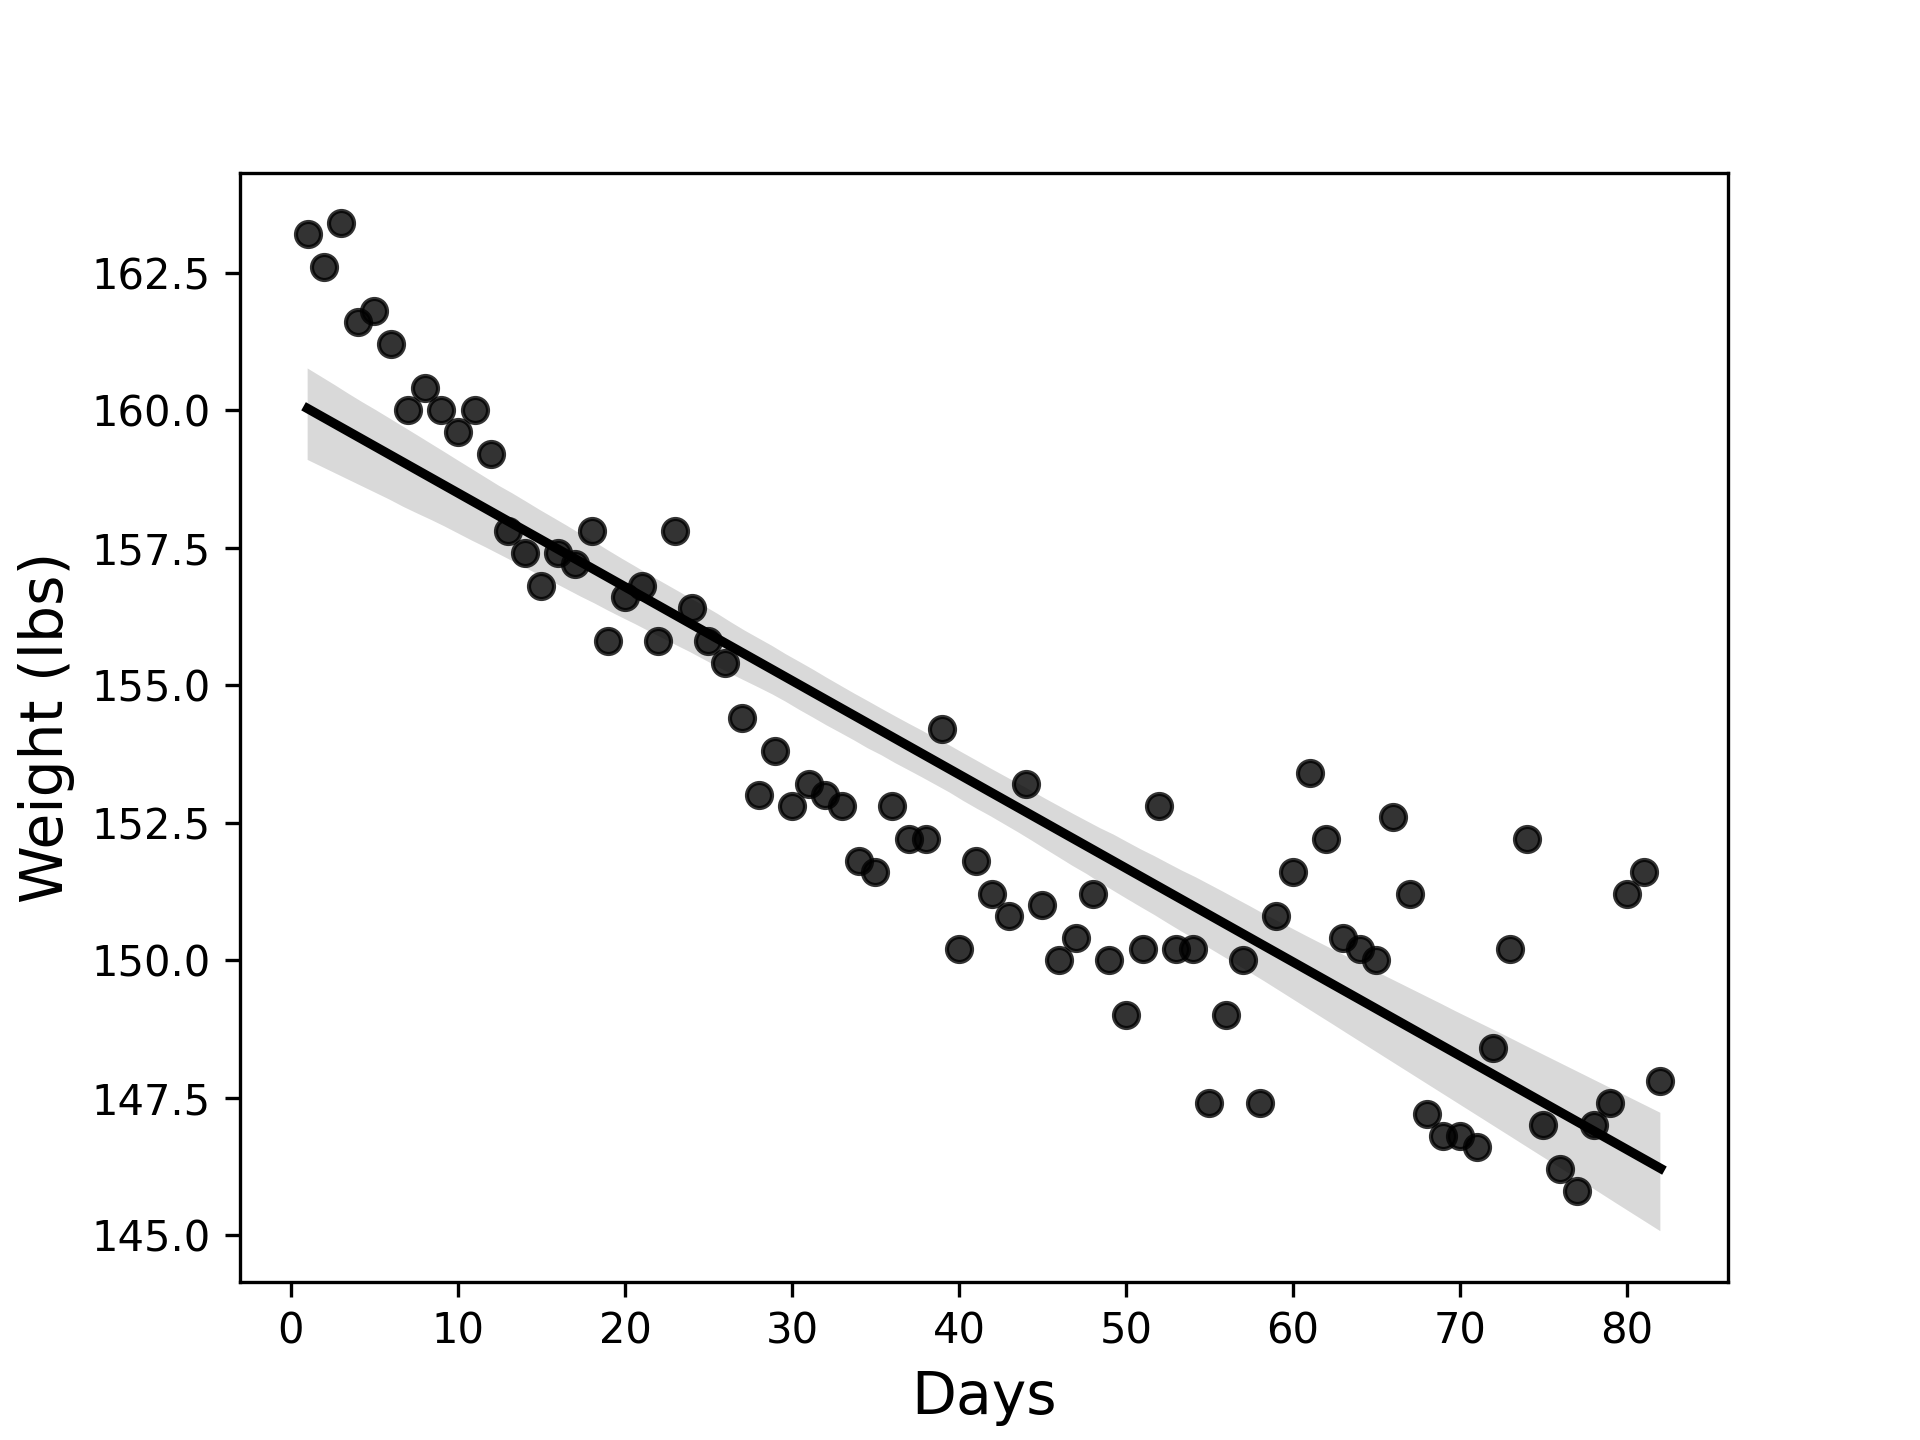
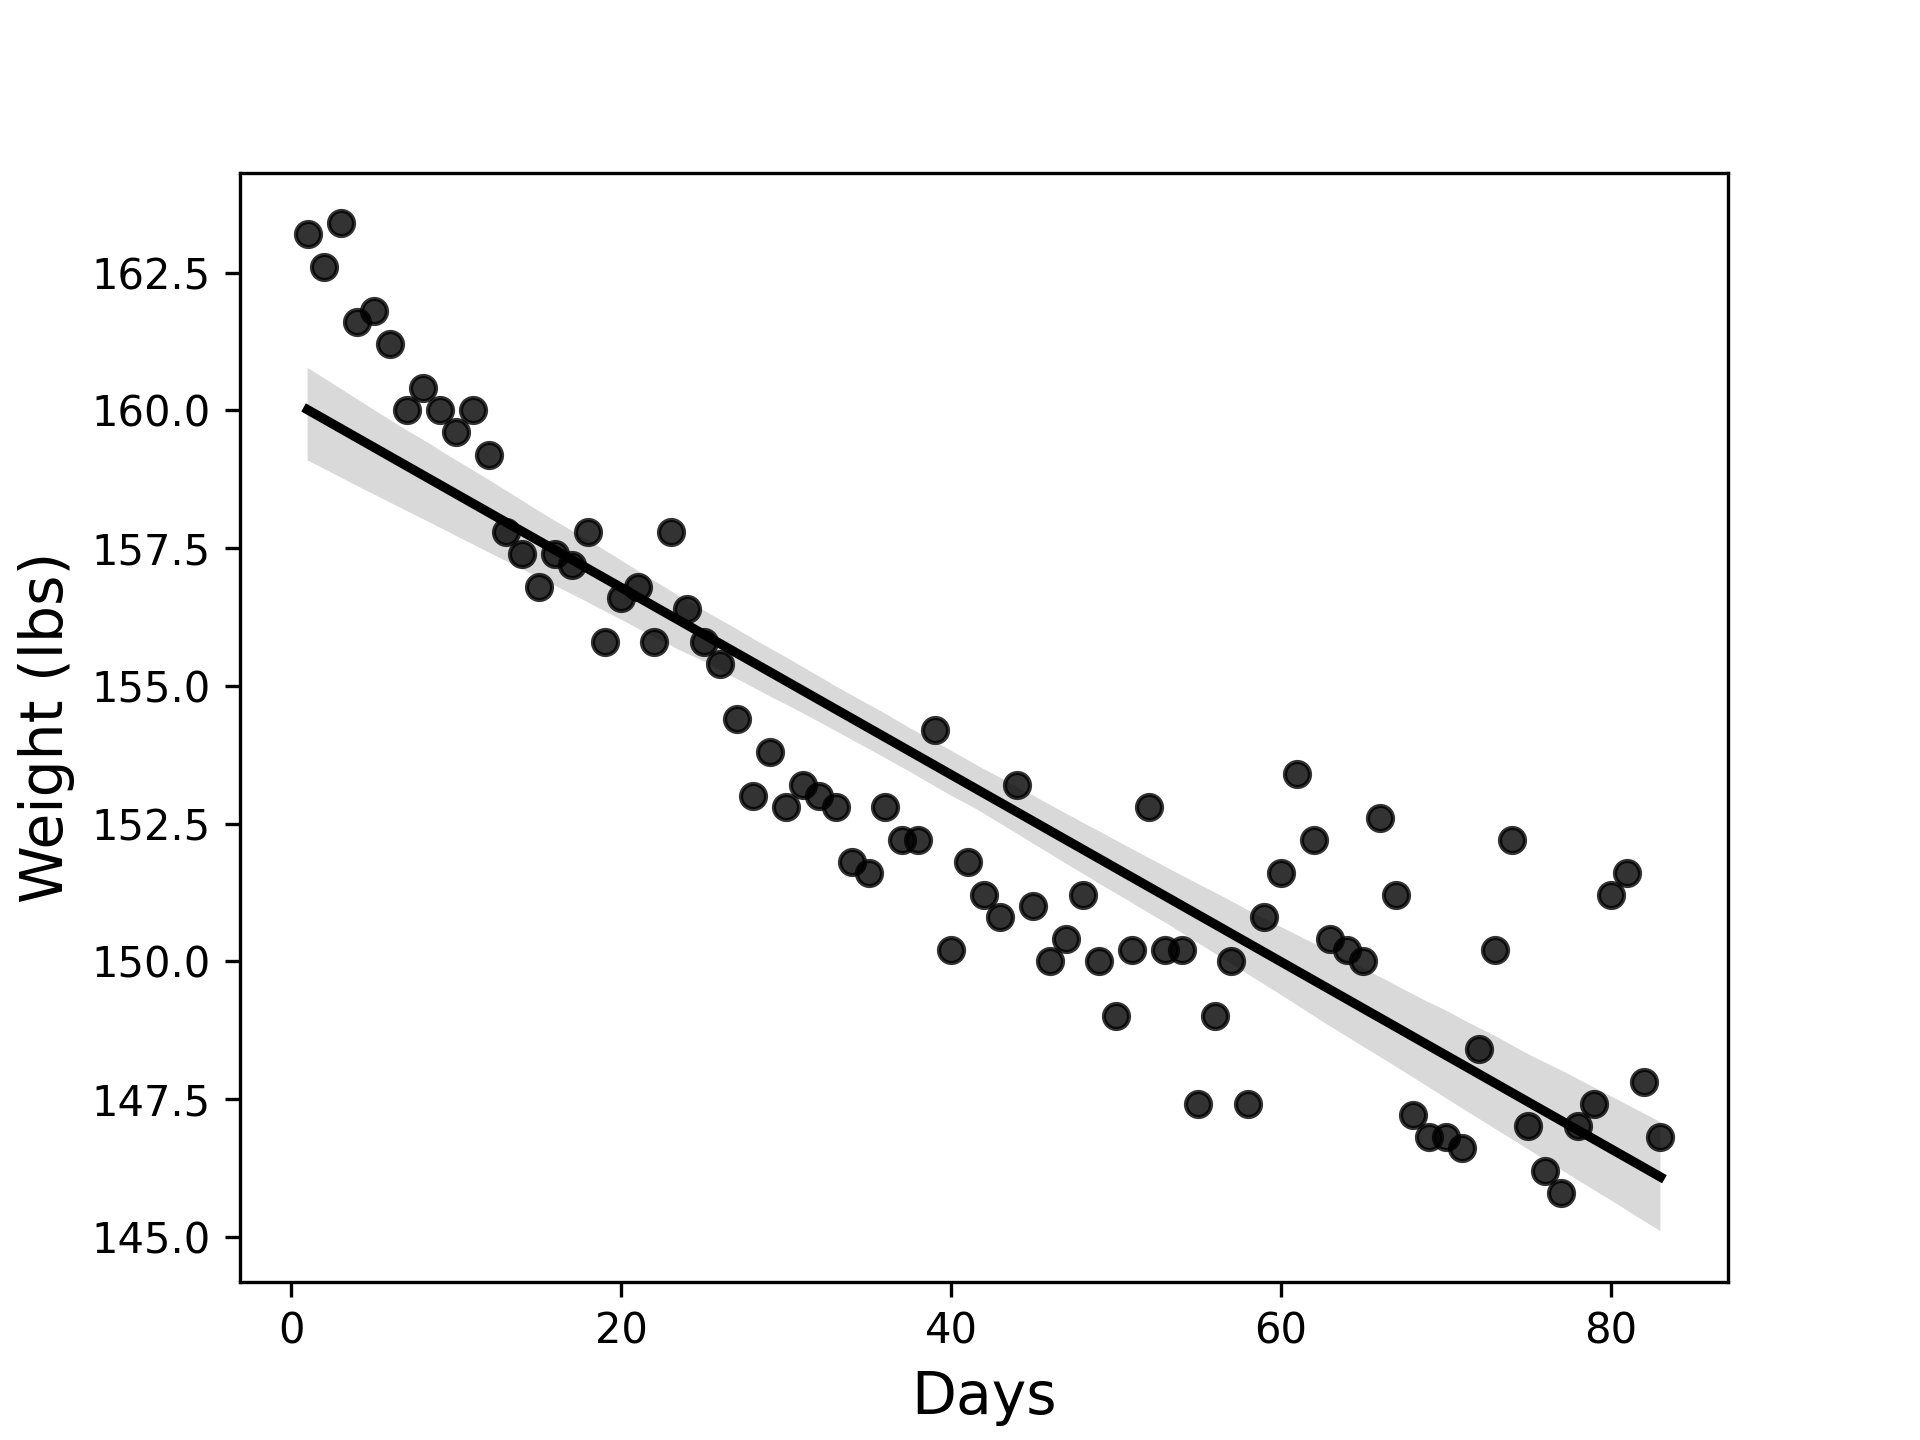
Updated weight.py and weight.png

diff --git a/Weight.py b/Weight.py
@@ -8,13 +8,13 @@ import seaborn as sns
 days_elapsed = np.array([1, 2, 3 ,4, 5, 6, 7, 8, 9, 10,11,12,13, 14,15,16,17,18,
                          19, 20,21,22,23,24,25,26,27,28,29,30,31,32,33,34,35,36,37,38,39,
                          40,41,42,43,44,45,46,47,48,49,50,51,52,53,54,55,56,57,58,59,60,61,62,
-                         63,64,65,66,67,68,69,70,71,72,73,74,75,76,77,78,79,80,81,82]).reshape(-1,1)
+                         63,64,65,66,67,68,69,70,71,72,73,74,75,76,77,78,79,80,81,82,83]).reshape(-1,1)
 weight = np.array([163.2, 162.6, 163.4, 161.6, 161.8, 161.2, 160.0, 160.4, 160.0, 159.6,160.0,159.2,157.8, 157.4,156.8,157.4,
                    157.2, 157.8,155.8, 156.6,156.8,155.8,157.8,156.4,155.8,155.4,154.4,153.0,153.8,152.8,153.2,
                    153.0,152.8,151.8,151.6,152.8,152.2,152.2,154.2,150.2, 151.8,151.2,150.8,153.2,
                    151.0,150.0,150.4,151.2,150.0,149.0,150.2,152.8,150.2,150.2,147.4,149.0,150.0,147.4,
                    150.8,151.6,153.4,152.2,150.4,150.2,150.0,152.6,151.2,147.2,146.8,146.8,146.6,
-                   148.4,150.2,152.2,147.0,146.2,145.8,147.0,147.4,151.2,151.6,147.8])
+                   148.4,150.2,152.2,147.0,146.2,145.8,147.0,147.4,151.2,151.6,147.8,146.8])
 # Day 62 BP
 
 # Instantiates a LinearRegression model and fits it to the above arrays
